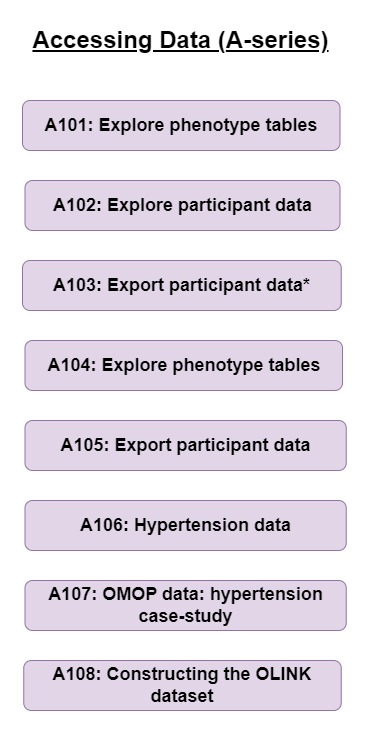
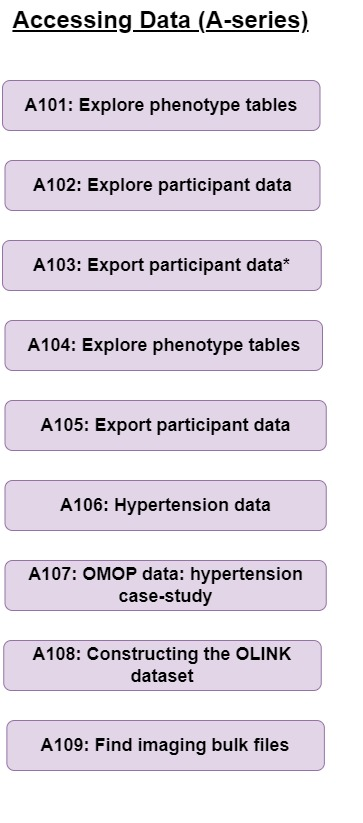
Updates readme

diff --git a/README.md b/README.md
@@ -39,6 +39,7 @@ A107 OMOP data: hypertension case-study (R; Spark)
 
 A108 Constructing the OLINK dataset (R; Spark)
 
+A109 Find imaging bulk files (Bash; Python)
 
 ## **Python and R libraries**
 
@@ -217,6 +218,25 @@ Next, we examine and visualize the data -- the empirical probability densities f
 
 -   cost: \<£0.30
 
+
+## A109 Find imaging bulk files (Bash; Python)
+
+**Scope:** This notebook provides an example of how to identify participants with a bulk imaging field and download these files to an instance. This notebook uses bash and python
+
+
+**Notebook file:** A109_Find-imaging-bulk-files.ipynb
+
+**Dependency** 
+
+- **NA**
+
+**Run info:**
+
+- runtime: dependent on number of fields 
+
+- recommended instance: mem1_ssd1_v2_x8
+
+- cost: dependent on number of fields 
 
 
 ### 
